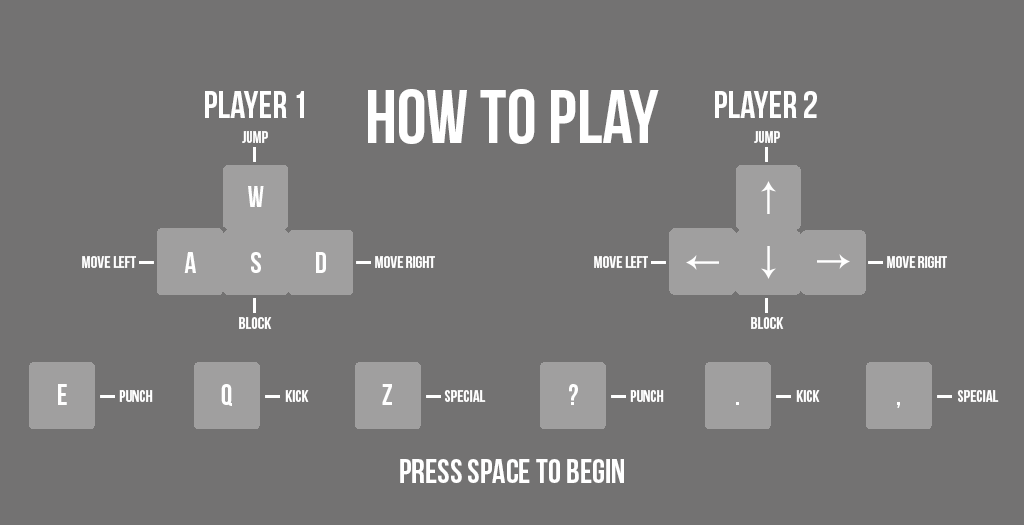
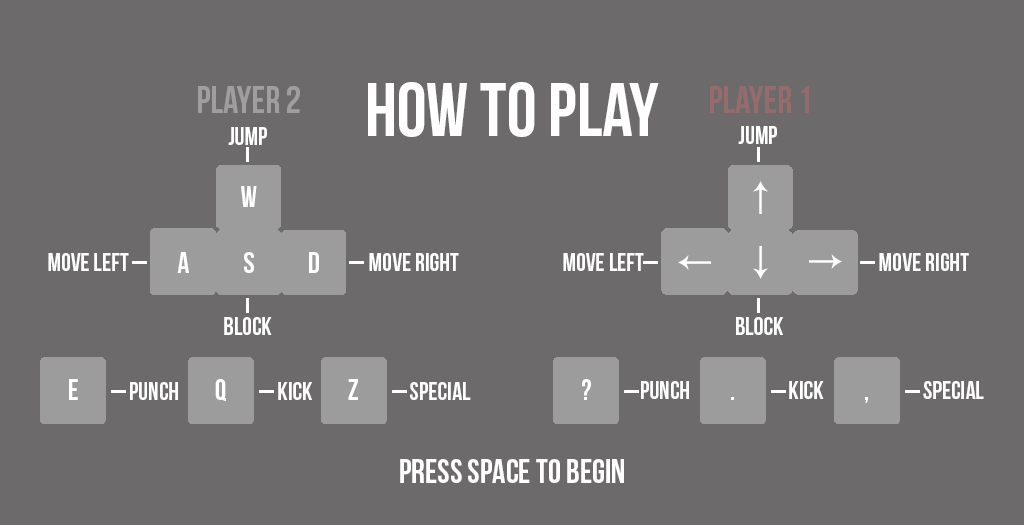
changed hit indicator and added player names

diff --git a/js/play.js b/js/play.js
@@ -59,6 +59,9 @@ playState.prototype = {
         console.log('create called');
     	this.game.physics.startSystem(Phaser.Physics.ARCADE);
     	bg = this.game.add.sprite(70,0,'boxingring');
+        var nameStyle = { font: "28px Bebas Neue", fill: "#ffffff", align: "center" }
+        var nameText1 = this.game.add.text(840, 65, 'Player 1', nameStyle);
+        var nameText2 = this.game.add.text(108, 65, 'Player 2', nameStyle);
         
 //initialize timer
         timer = this.game.time.create();
@@ -69,8 +72,8 @@ playState.prototype = {
 //initialize character sprites
         player2 = this.game.add.sprite(50, 400, 'ryu');
         player1 = this.game.add.sprite(850, 400, 'ken');
-        player2.name = 'ryu';
-        player1.name = 'ken';
+        player2.name = 'Player 2';
+        player1.name = 'Player 1';
 
 //initializing defense
         player1.isHeadDisabled = false;
@@ -726,12 +729,24 @@ playState.prototype = {
         if(timer.running) {
             this.game.debug.text(formatTime(Math.round((timerEvent.delay - timer.ms) / 1000)), 483, 60, "#ffb64d", '60px ScriptoramaMarkdownJF');
         }
-        else {
-            if(htp.exists == false){
-                music.stop();
+        else if(timer.running == false && htp.exists == false){
+            music.stop();
+            if(player1.health > player2.health) {
+                this.game.state.start('end', true, false, player2, player1);
+            }
+            else if (player2.health > player1.health) {
+                this.game.state.start('end', true, false, player1, player2);
+            }
+            else {
                 this.game.state.start('end');
             }
-        }
+    }
+//        else {
+//            if(htp.exists == false){
+//                music.stop();
+//                this.game.state.start('end');
+//            }
+//        }
 //        else {
 //            this.game.debug.text("End of Round", 200, 250, "#ffb64d", '100px ScriptoramaMarkdownJF');
 //            //send to endState Winner/loser/sudden death

diff --git a/index.html b/index.html
@@ -8,6 +8,7 @@
     <script  type="text/javascript" src="plugins/HealthMeter.js"></script>
     <script  type="text/javascript" src="js/boot.js"></script>
     <script  type="text/javascript" src="js/load.js"></script>
+    <script  type="text/javascript" src="js/howtoplay.js"></script>
     <script  type="text/javascript" src="js/title_screen.js"></script>
     <script  type="text/javascript" src="js/play.js"></script>
     <script  type="text/javascript" src="js/end_screen.js"></script>
@@ -20,6 +21,7 @@
         game.state.add('title_screen', title_screen);
         game.state.add('boot', bootState);
         game.state.add('load', loadState);
+        game.state.add('htp', htpState);
         game.state.add('play', playState);
         game.state.add('end', end_screen);
         console.log('index')

diff --git a/js/howtoplay.js b/js/howtoplay.js
@@ -1,0 +1,18 @@
+var htpState = {
+
+    create: function() {
+        this.game.add.sprite(0,0,"howtoplay");
+        
+        this.game.loading_music = this.game.add.audio('menu_music')
+        this.game.loading_music.play();
+
+        var startKey = this.game.input.keyboard.addKey(Phaser.Keyboard.SPACEBAR);
+
+        startKey.onDown.addOnce(this.start, this);
+
+    },
+    
+    start: function() {
+        this.game.state.start('play');
+    }
+}
